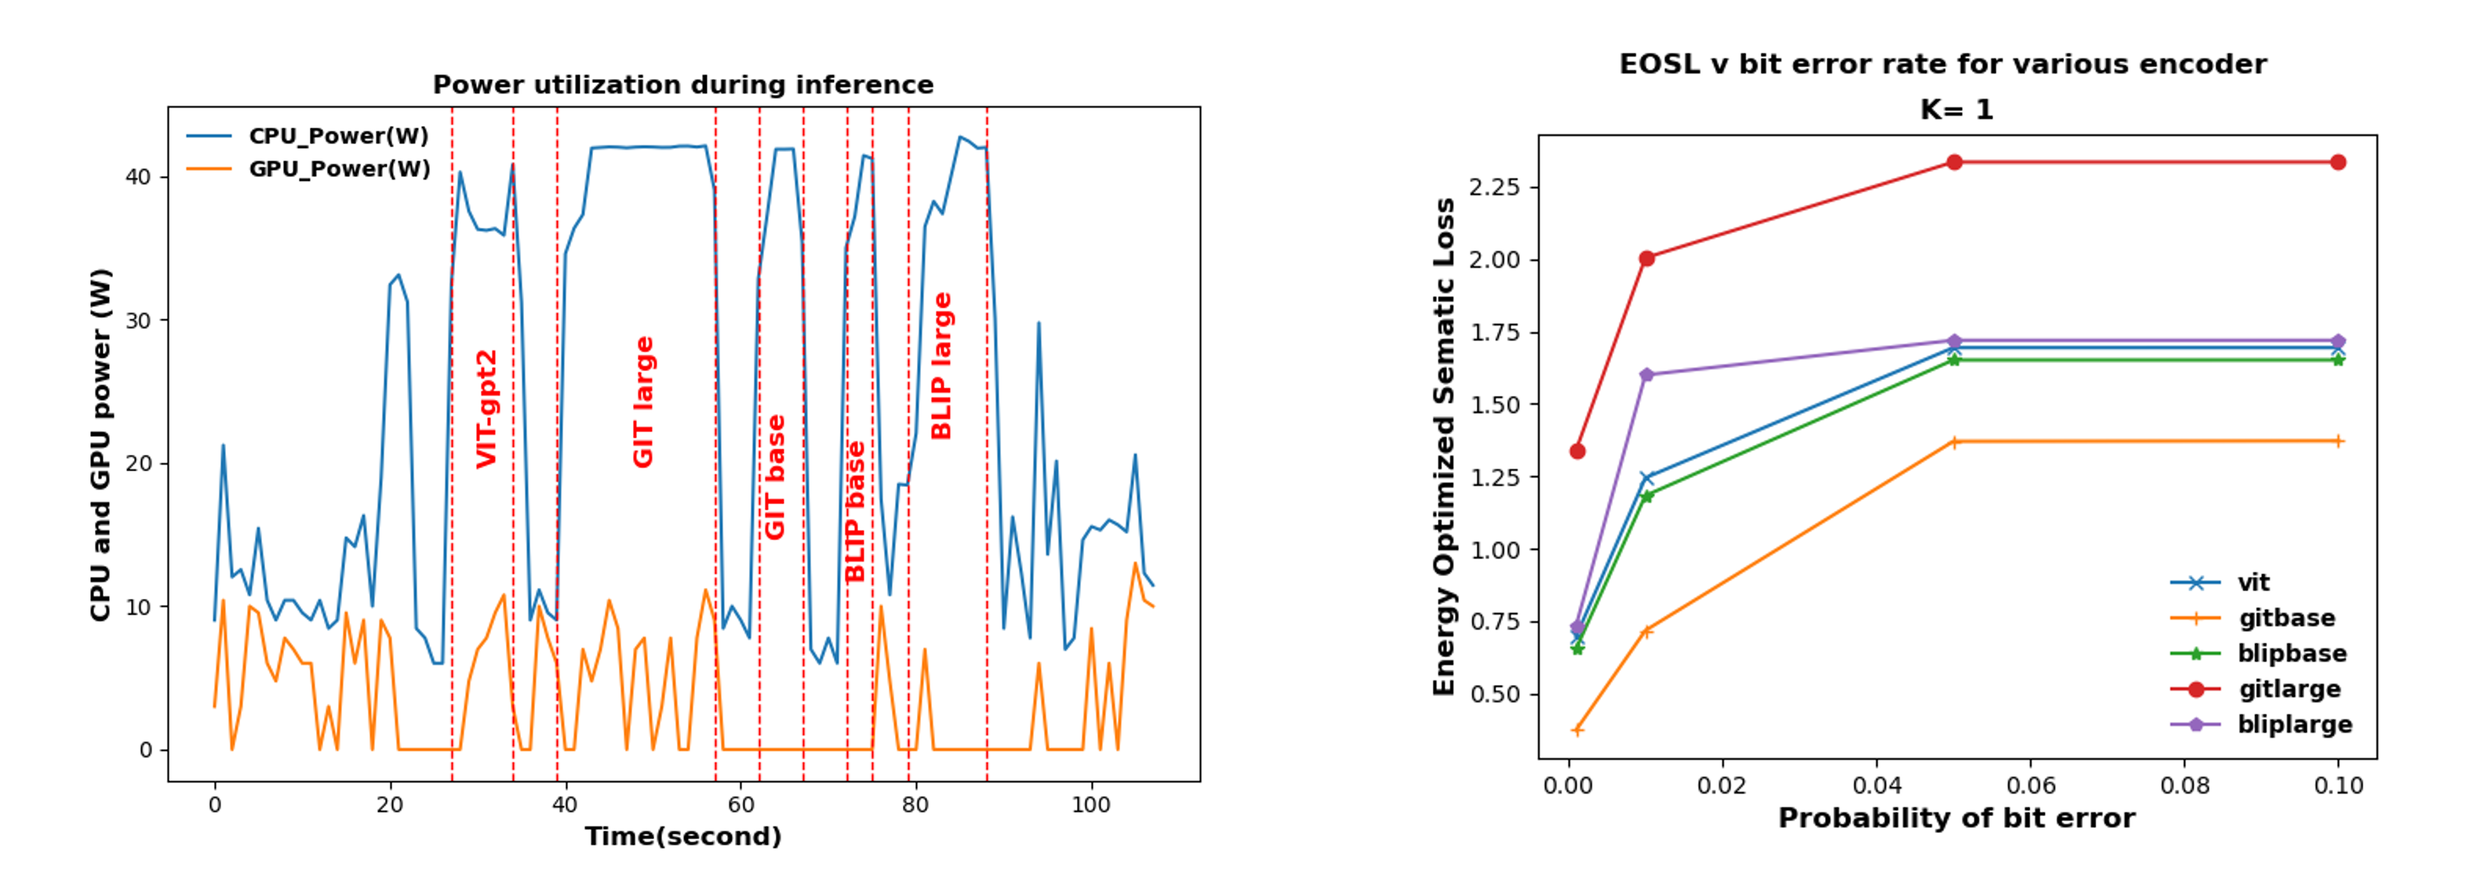
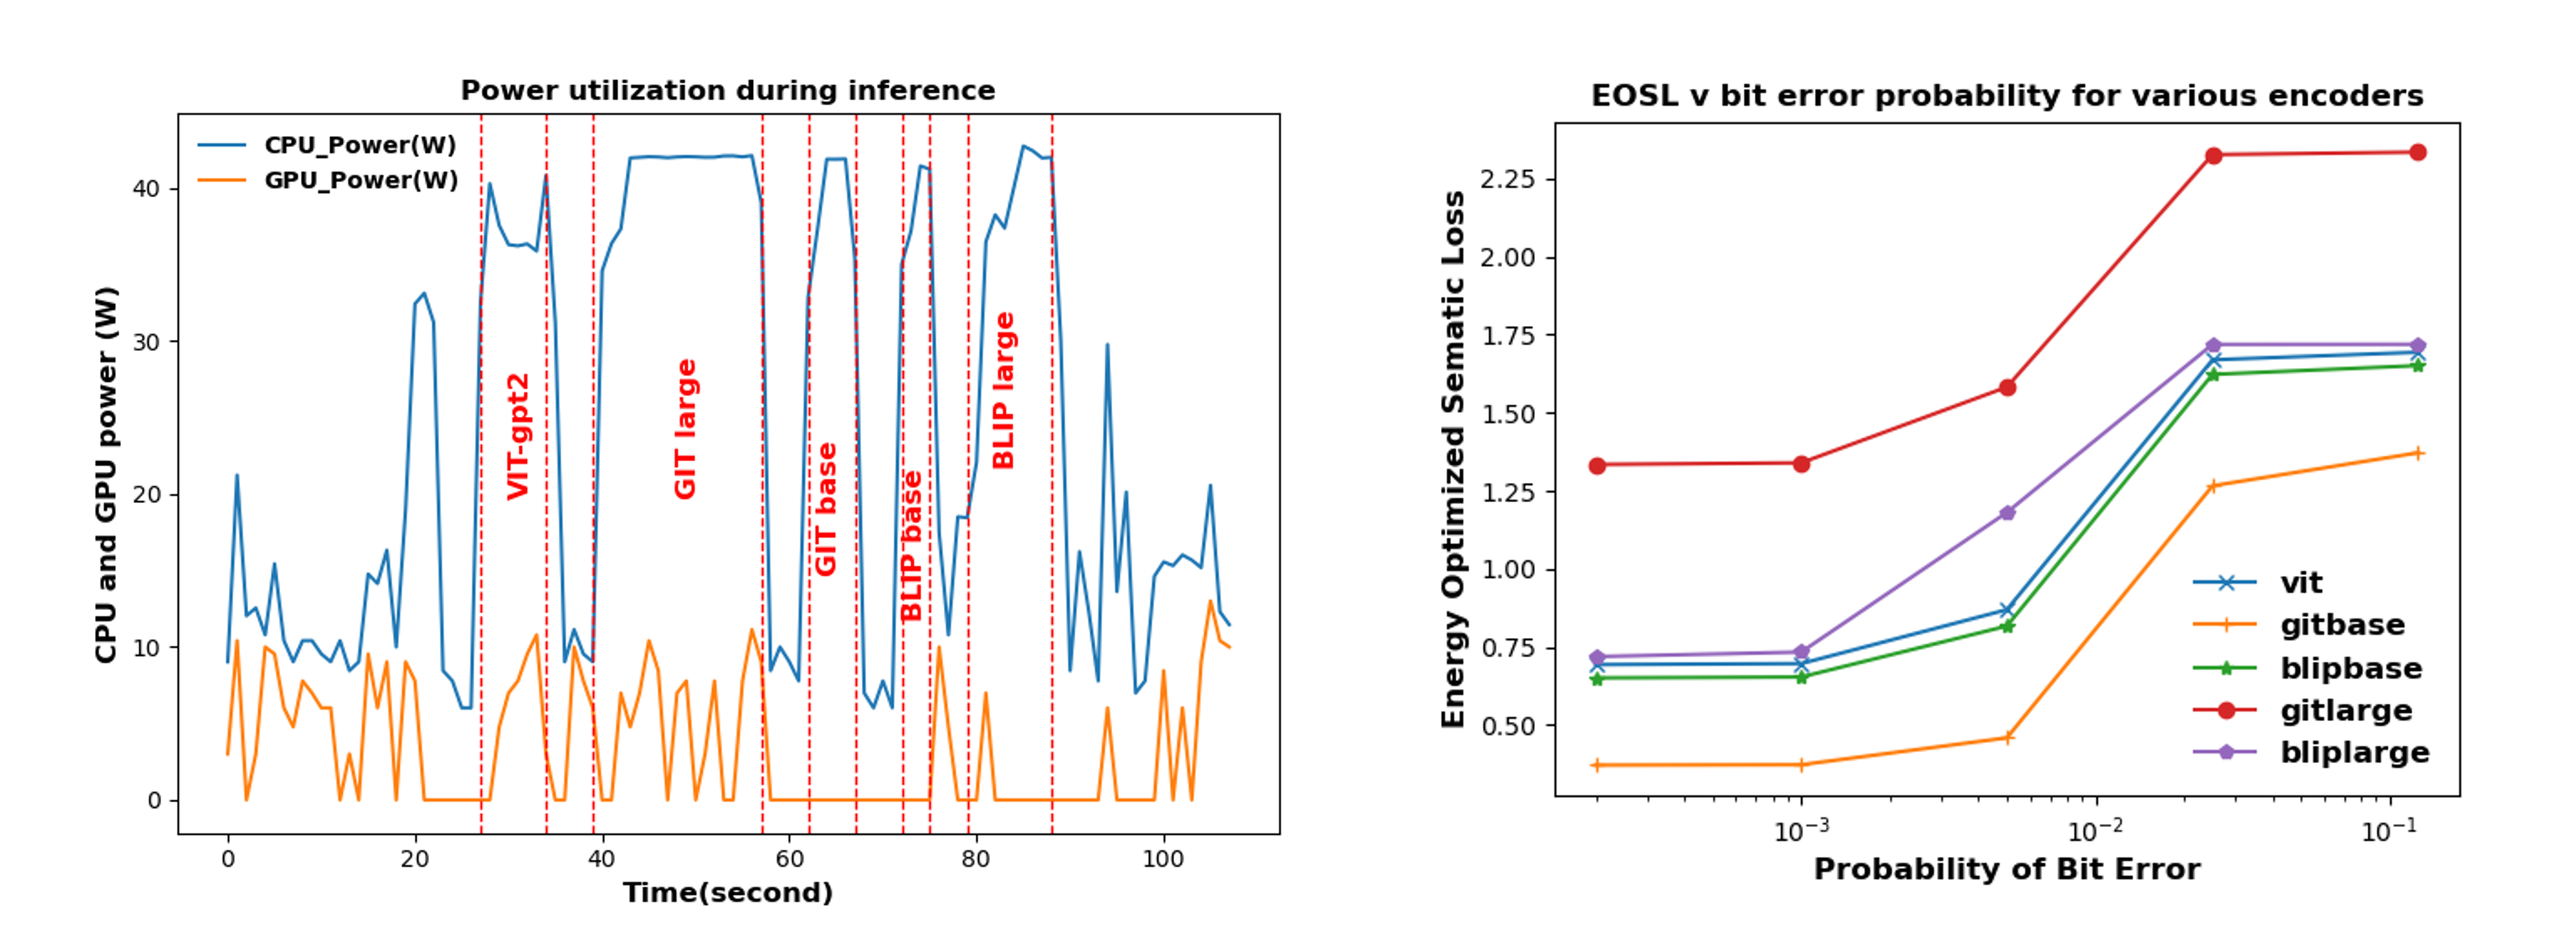
minor changes in eosl plot code and updated plots

diff --git a/eosl_result_plot.py b/eosl_result_plot.py
@@ -1,6 +1,7 @@
 from modified_eosl import eosl_loss
 import pandas as pd
 import matplotlib.pyplot as plt
+from math import log10 as log
 
 
 def get_eosl_stats(plot_graph=0):
@@ -17,25 +18,30 @@ def get_eosl_stats(plot_graph=0):
             i += 1
         # Plot dataset 1 as a line plot
         plt.plot(dfs[0]['pb'], dfs[0]['eosl'], label='vit', marker='x')
+        plt.xscale('log')
 
         # Plot dataset 2 as a line plot
         plt.plot(dfs[1]['pb'], dfs[1]['eosl'], label='gitbase', marker='+')
+        plt.xscale('log')
 
         # Plot dataset 2 as a line plot
         plt.plot(dfs[2]['pb'], dfs[2]['eosl'], label='blipbase', marker='*')
+        plt.xscale('log')
 
         # Plot dataset 2 as a line plot
         plt.plot(dfs[3]['pb'], dfs[3]['eosl'], label='gitlarge', marker='o')
+        plt.xscale('log')
 
         # Plot dataset 2 as a line plot
         plt.plot(dfs[4]['pb'], dfs[4]['eosl'], label='bliplarge', marker='p')
+        plt.xscale('log')
 
         # Add labels, title, and legend
-        legend_font = {'weight': 'bold', 'size': 10}
-        plt.xlabel('Probability of bit error', fontweight='bold', size=12)
+        legend_font = {'weight': 'bold', 'size': 12}
+        plt.xlabel('Probability of Bit Error', fontweight='bold', size=12)
         plt.ylabel('Energy Optimized Sematic Loss', fontweight='bold', size=12)
-        plt.suptitle('EOSL v bit error rate for various encoder', fontweight='bold', size=12)
-        plt.title('K= ' + str(k), fontweight='bold', size=12)
+        plt.title('EOSL v bit error probability for various encoders', fontweight='bold', size=12)
+        # plt.title('K= ' + str(k), fontweight='bold', size=12)
         plt.legend(loc='lower right', frameon=False, prop=legend_font)
 
         # Show the plot
@@ -43,7 +49,8 @@ def get_eosl_stats(plot_graph=0):
 
     else:
         plot_data_all = []
-        pb_list = [.001, .01, .05, .1]
+        # pb_list = [.001, .01, .05, .1]
+        pb_list = [.0002, .001, .005, .025, .125]
         plot_data_all.append(['encoder', 'pb', 'eosl'])
         for enc in enc_list:
             for pb in pb_list:
